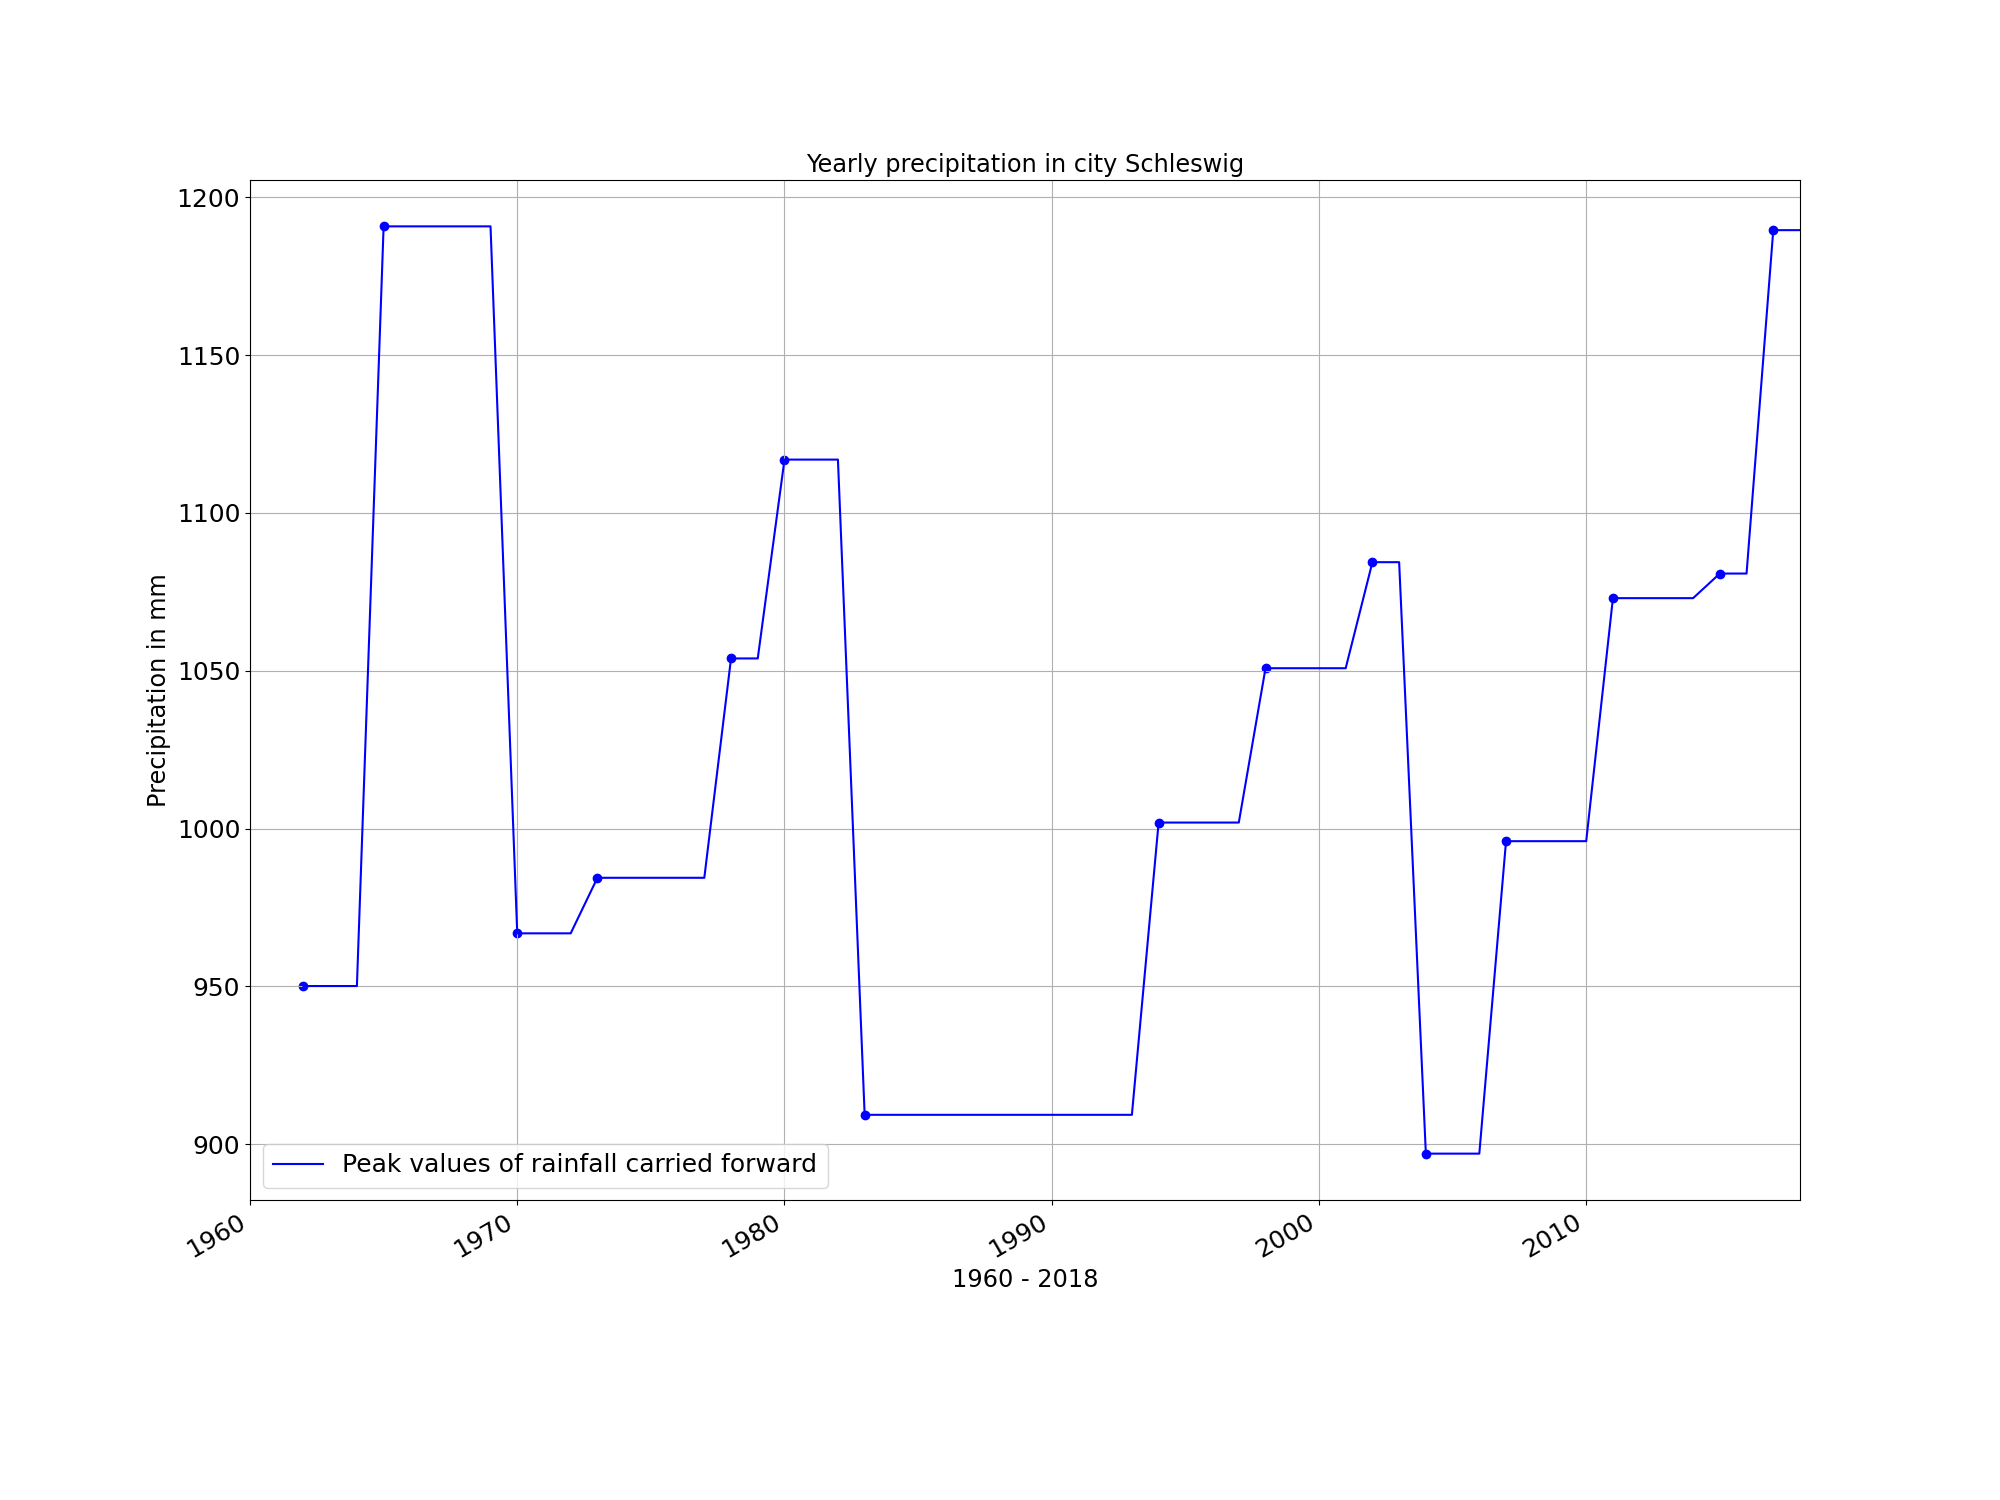
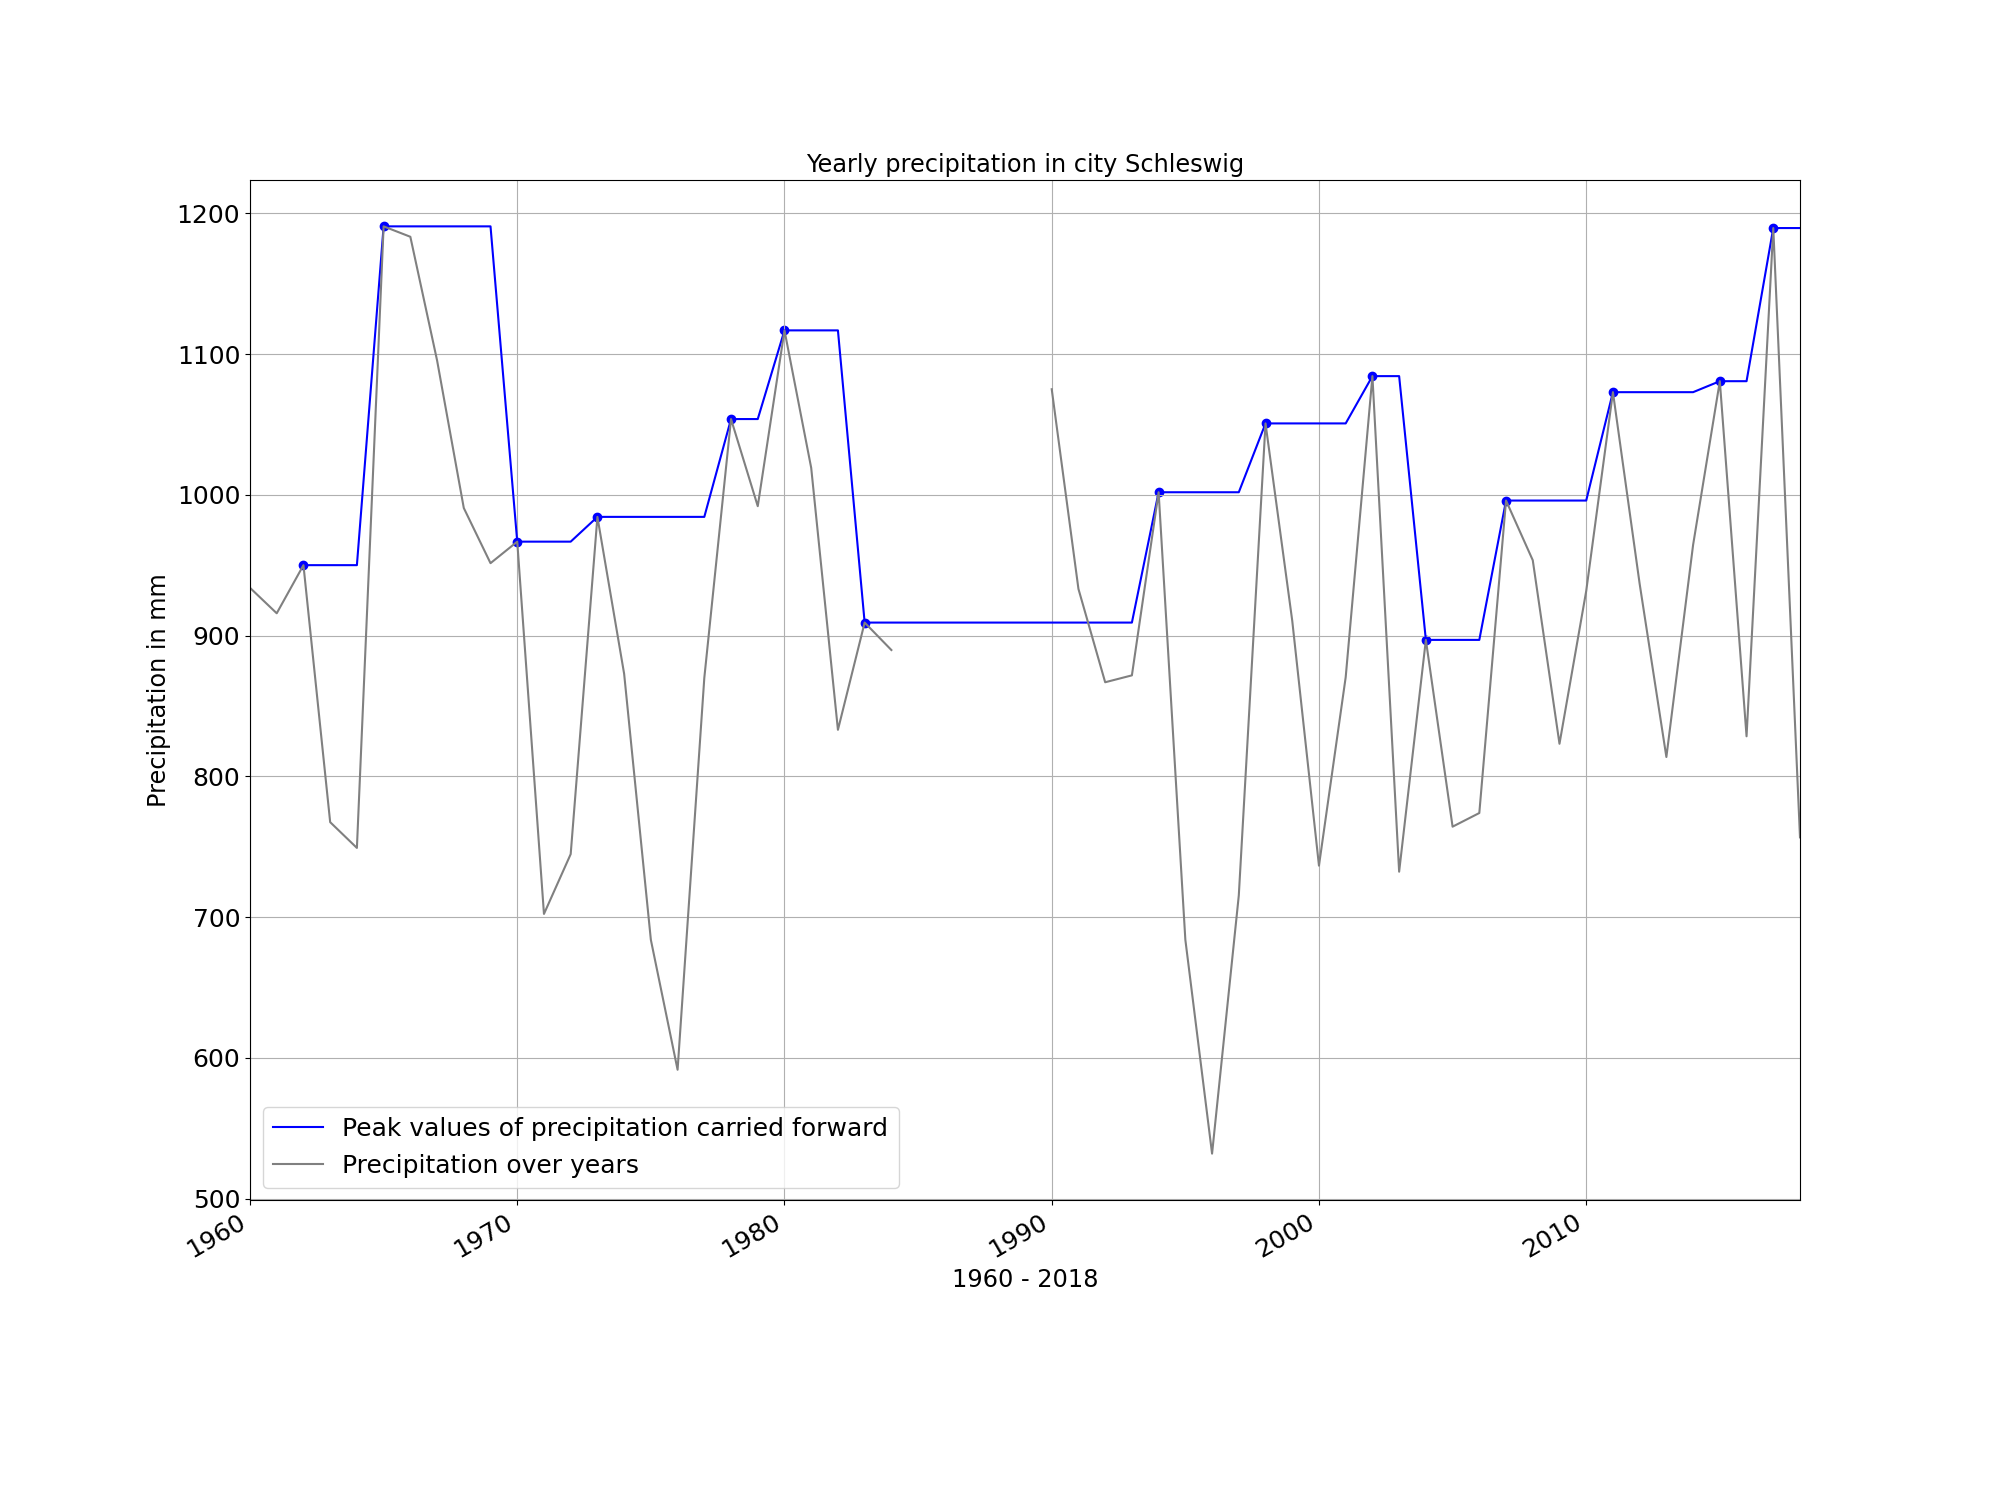
Add files via upload

diff --git a/lineplot_peaks_historical_weather.py b/lineplot_peaks_historical_weather.py
@@ -25,7 +25,14 @@ Copyright notice by data provider:
 https://www.dwd.de/DE/service/copyright/copyright_node.html
 '''
 
-# In[1]:
+
+'''
+Demonstration of:
+  - Working on "lag" records [emulating SAS Lag function] 
+  - Data munging without costly iteration (no itertuples() nor iterrows() ) but using .loc attribute
+  - Emulating LOCF 
+
+'''
 
 
 import os, numpy as np
@@ -37,14 +44,6 @@ datapath = os.path.join(homedir, 'Dokumente','python-apps','tensorflow', 'eu_air
 datafile = 'wetter_historical_Schleswig.csv'
 
 indatapath = os.path.join(datapath,datafile)
-
-'''
-Demonstration of:
-  - Working on "lag" records [emulating SAS Lag function] 
-  - Data munging without costly iteration (no itertuples() nor iterrows() ) but using .loc attribute
-  - Emulating LOCF 
-
-'''
 
 df = pd.read_csv(indatapath, header=0, sep=';',usecols=[1,14])
 df['start_dt'] = pd.to_datetime(df.MESS_DATUM_BEGINN, format='%Y%m%d')
@@ -115,7 +114,8 @@ df.peak_ffill.fillna(method='ffill', inplace=True)
 print(df)
 
 fig, ax = plt.subplots(figsize=[20,15])
-ax.plot(df['year'], df['peak_ffill'], label='Peak values of rainfall carried forward', color='b')
+ax.plot(df['year'], df['peak_ffill'], label='Peak values of precipitation carried forward', color='b')
+ax.plot(df['year'], df['rain'], label='Precipitation over years', color='grey')
 ax.scatter(df['year'], df.rain_peaks, color='b')
 
 ax.set_xlim(1960, 2018)
